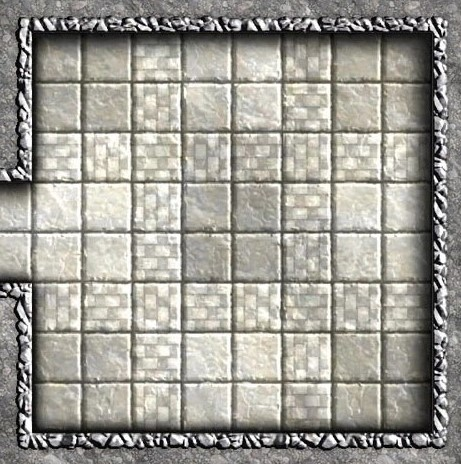
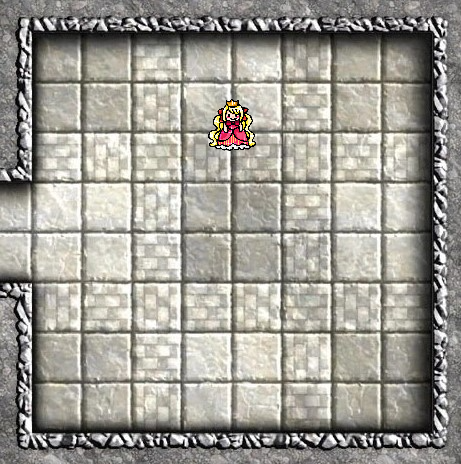
add princess to rooms for storyline

Changed region(s): [[0.4555, 0.2112, 0.577, 0.3319]]

diff --git a/js/stage.js b/js/stage.js
@@ -30,7 +30,7 @@ class Stage {
         this.startExplanation = document.createElement("h3");
         this.startExplanation.style.textAlign = "center";
         this.startExplanation.style.padding = "5vh";
-        this.startExplanation.innerText = "DO NOT DIE! Press the W, A, S, D keys to move around the area. If the enemies or their projectiles catch you, you are gone for good! You will be lucky enough to have three lives, but so will your enemies."
+        this.startExplanation.innerText = "DO NOT DIE! Press the W, A, S, D keys to move around the area. You will shoot constant fireballs where your mouse is, so aim properly! If the enemies or their projectiles catch you, you are gone for good. You will be lucky enough to have three lives, use them well to save the princess's twin!"
         this.startMessage.appendChild(this.startExplanation);
 
         // create confirmation text
@@ -49,16 +49,8 @@ class Stage {
         this.startButton.style.border = "0.5vh solid black"
         this.startButton.style.borderRadius = "1vh";
         this.startButton.addEventListener("click", () => {
-            this.startGame();
+            this.startMessage.style.display = "none";
         });
         this.startMessage.appendChild(this.startButton);
-    }
-
-    startGame() {
-        // Hide the start message
-        this.startMessage.style.display = "none";
-
-        // Additional logic to start the game goes here
-        console.log("Game Started!");
     }
 }

diff --git a/js/player.js b/js/player.js
@@ -1,8 +1,8 @@
 class Player {
     constructor() {
         // set size of player
-        this.width = 8;
-        this.height = 12;
+        this.width = 10;
+        this.height = 14;
 
         // set position of player
         this.positionX = 50 - this.width / 2;

diff --git a/css/main.css b/css/main.css
@@ -39,7 +39,7 @@ body {
 #start-message {
     position: absolute;
     background-color: burlywood;
-    z-index: 1;
+    z-index: 2;
     width: 80vh;
     height: 80vh;
     left: 0;
